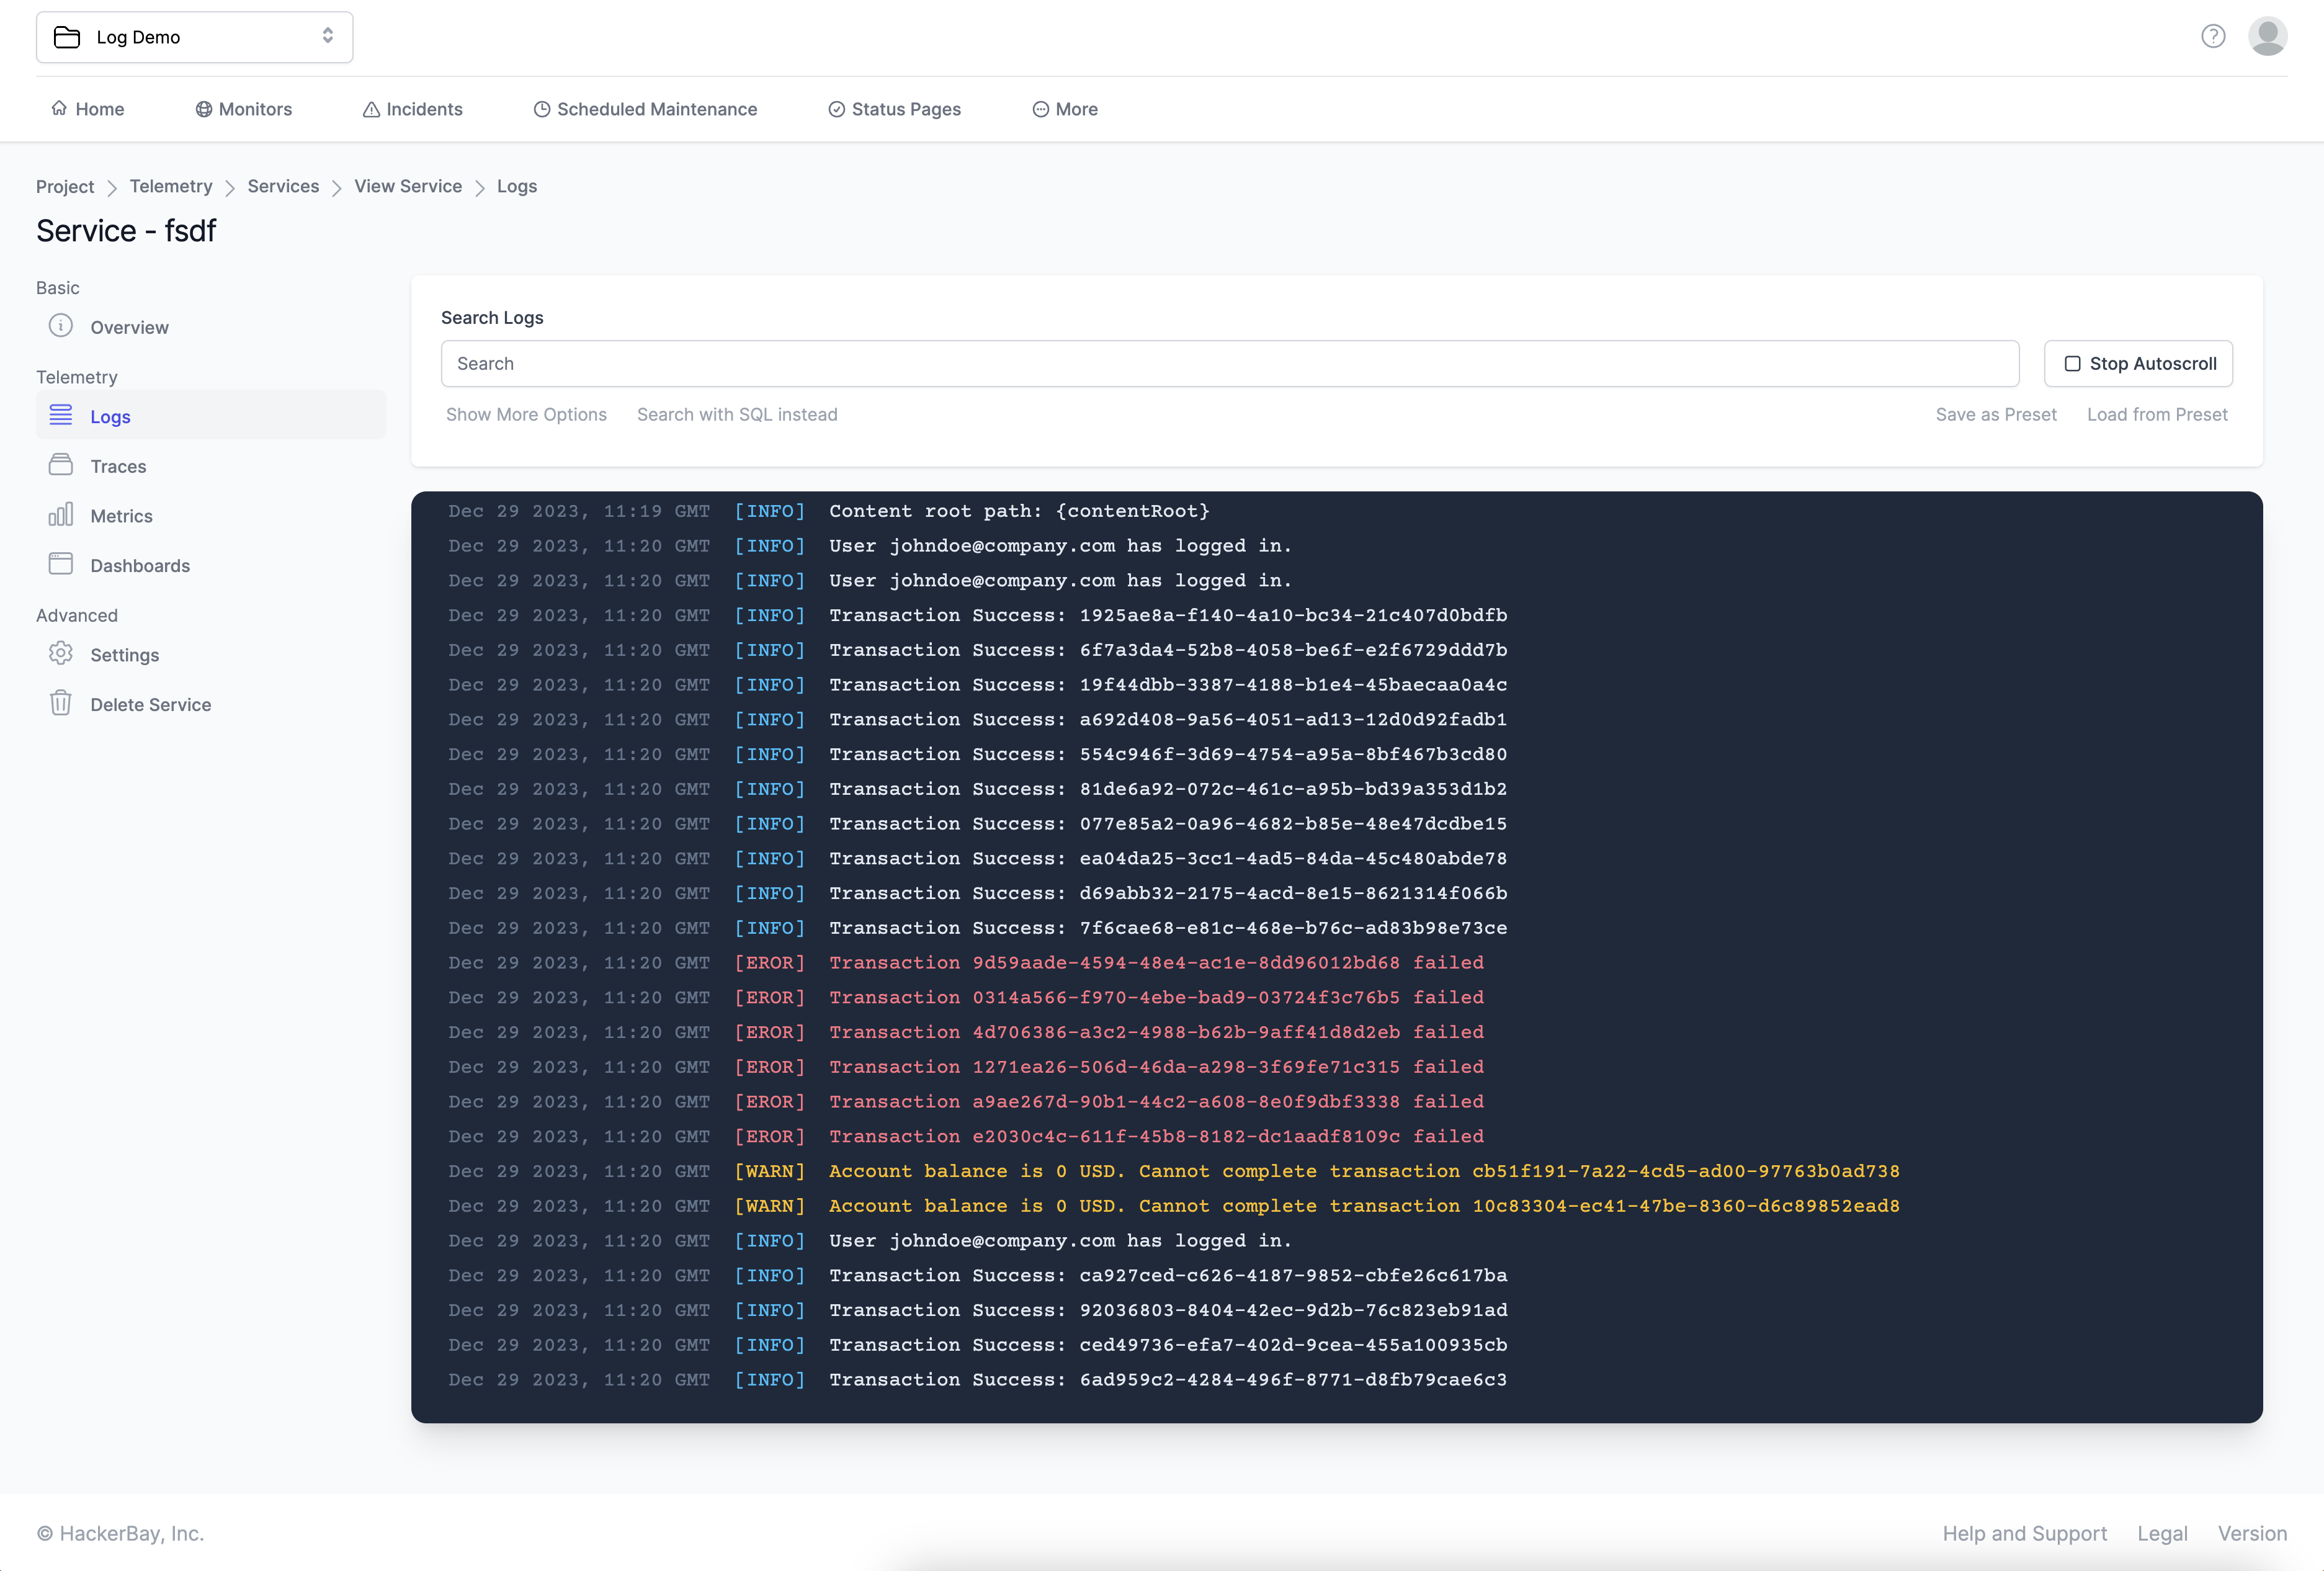
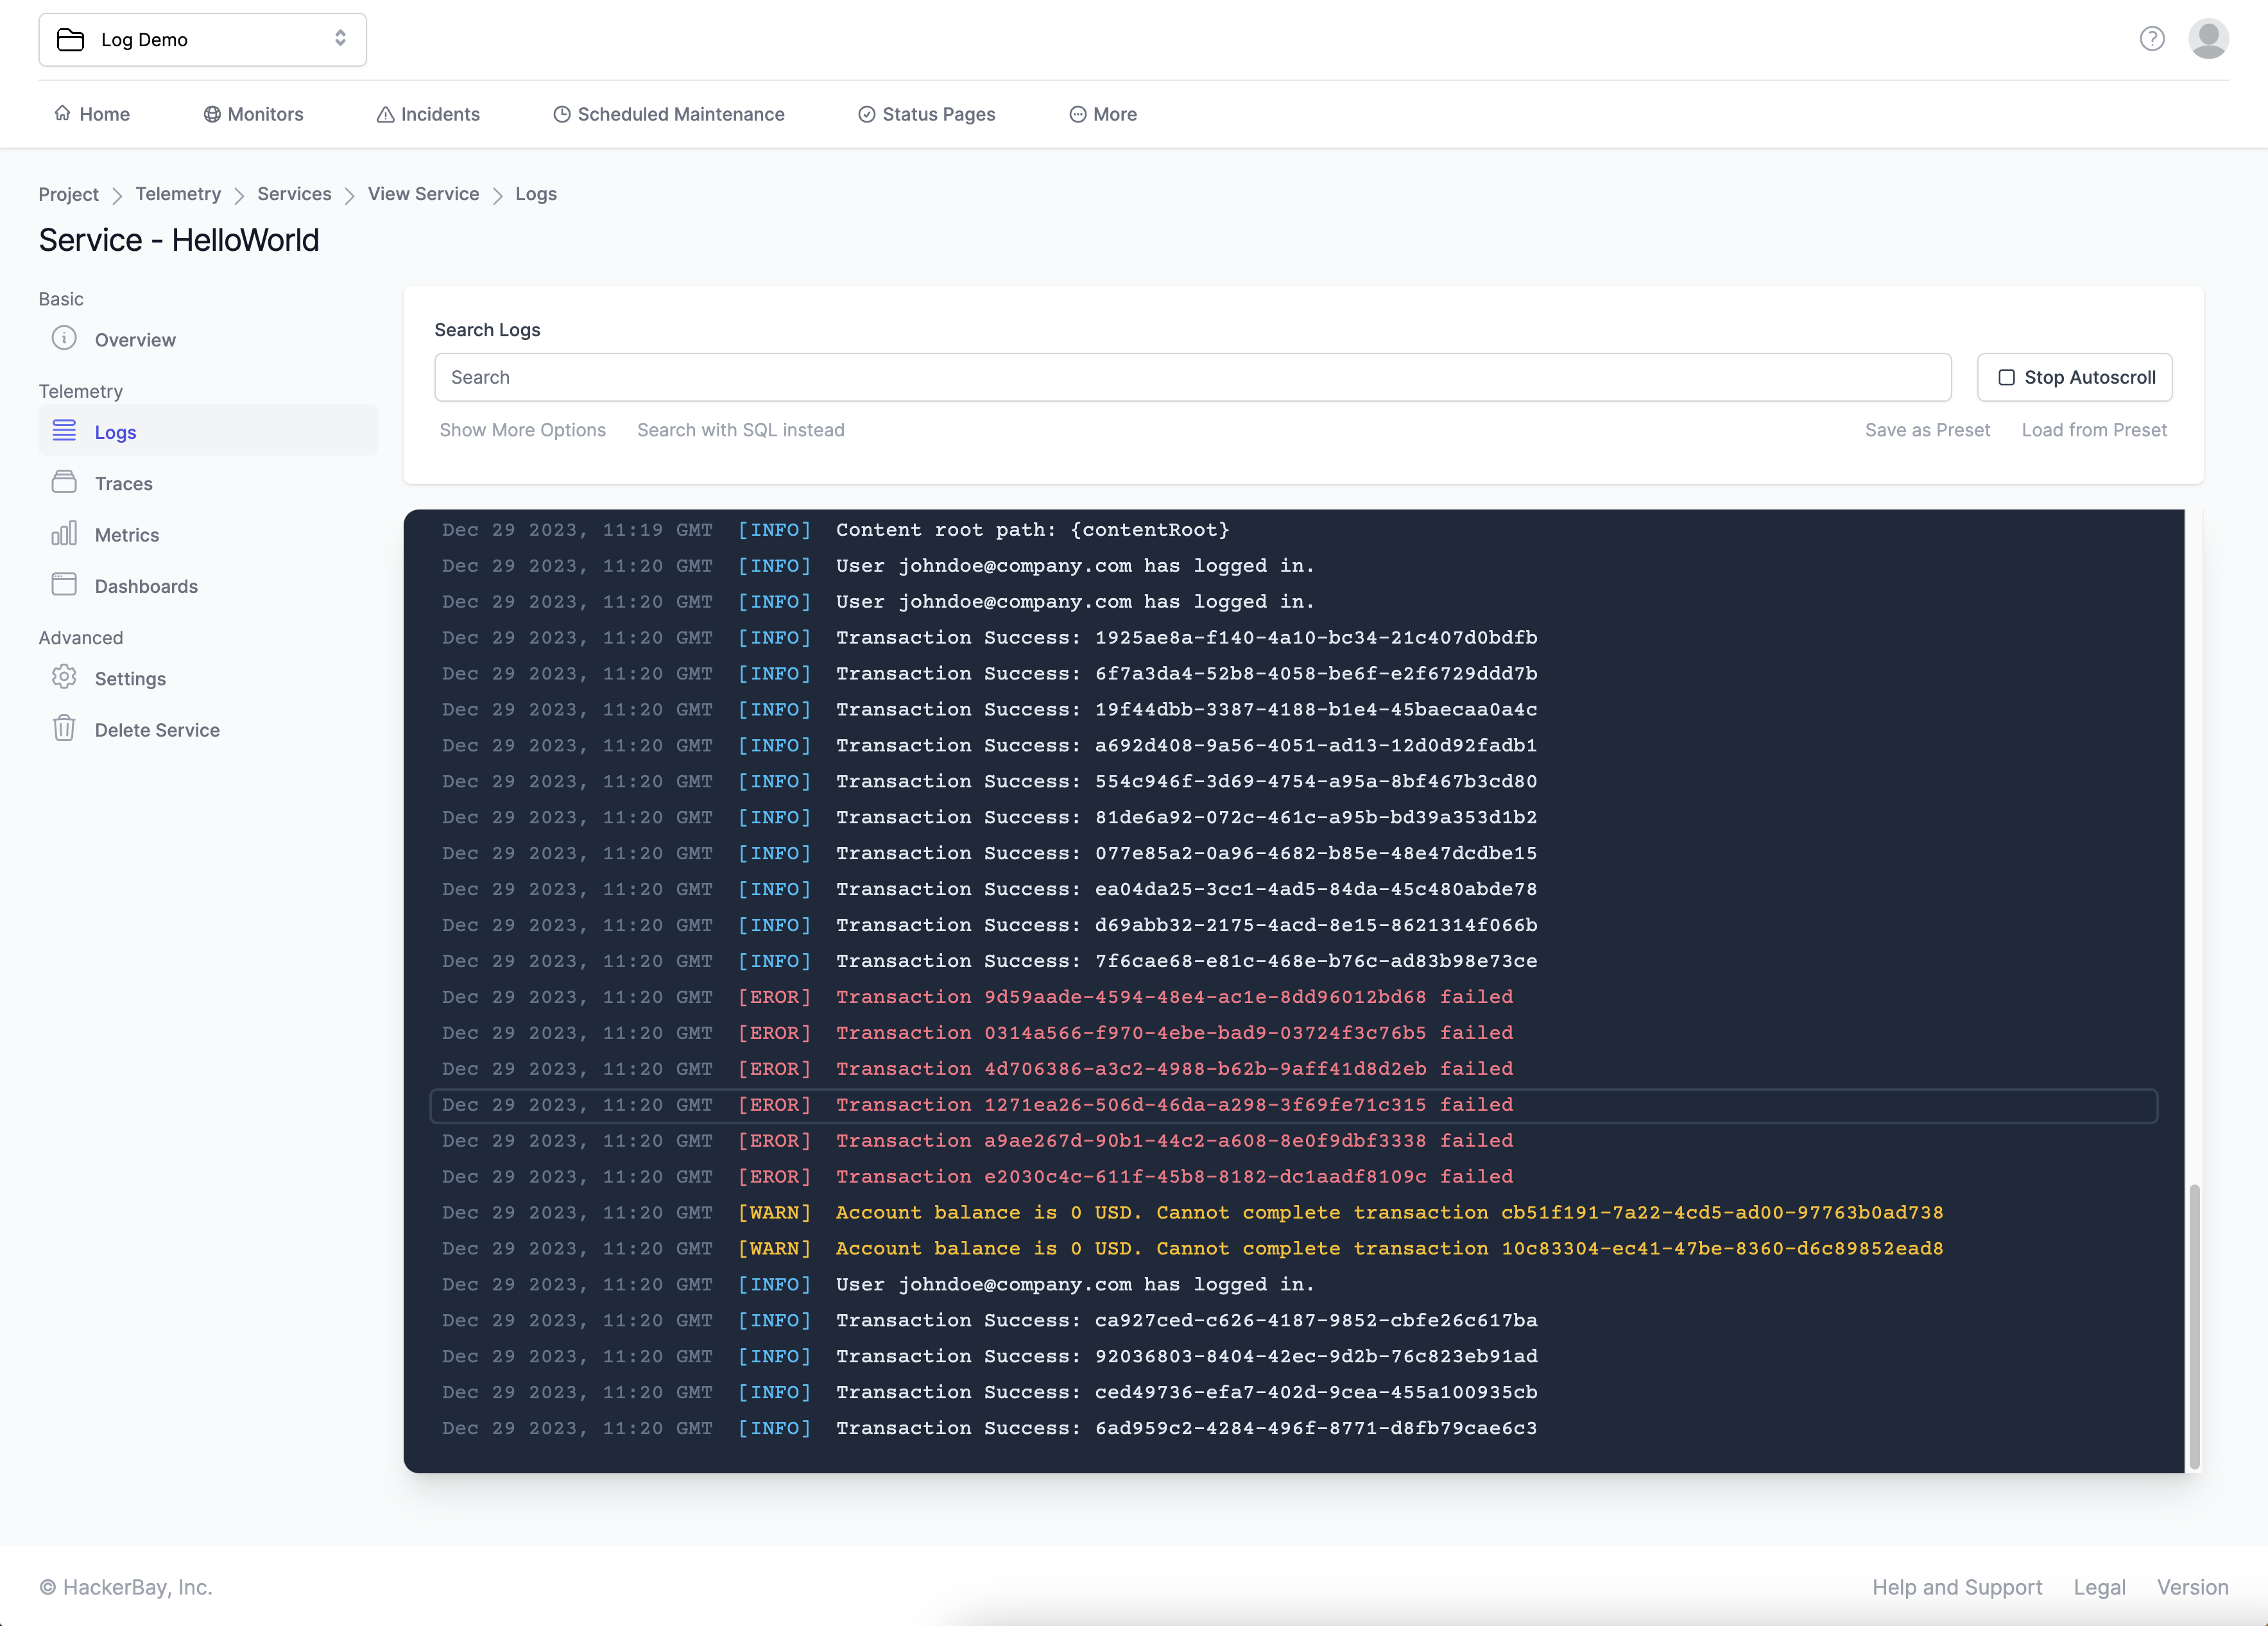
Update images and add edit button for data retention

diff --git a/Dashboard/src/Pages/Settings/DataRentention.tsx b/Dashboard/src/Pages/Settings/DataRentention.tsx
@@ -55,6 +55,7 @@ const Settings: FunctionComponent<PageComponentProps> = (
                         'Configure how long you want to keep your telemetry data - like Logs, Metrics, and Traces.',
                 }}
                 isEditable={true}
+                editButtonText='Edit Data Retention'
                 formFields={[
                     {
                         field: {